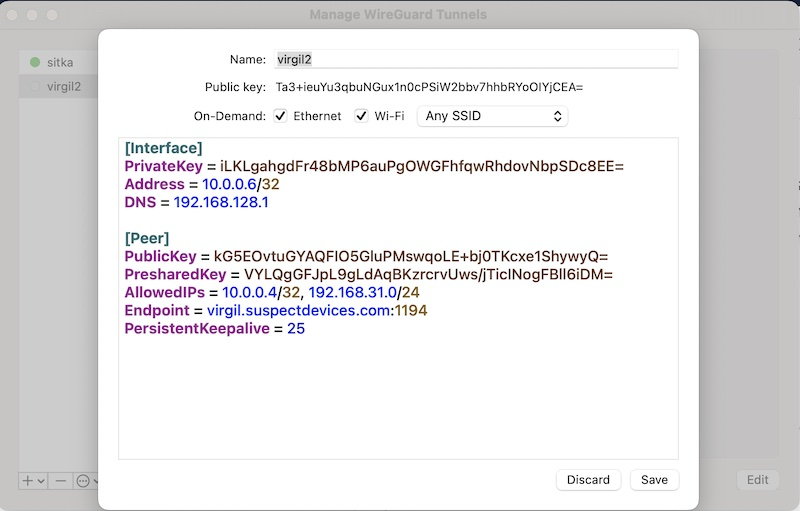
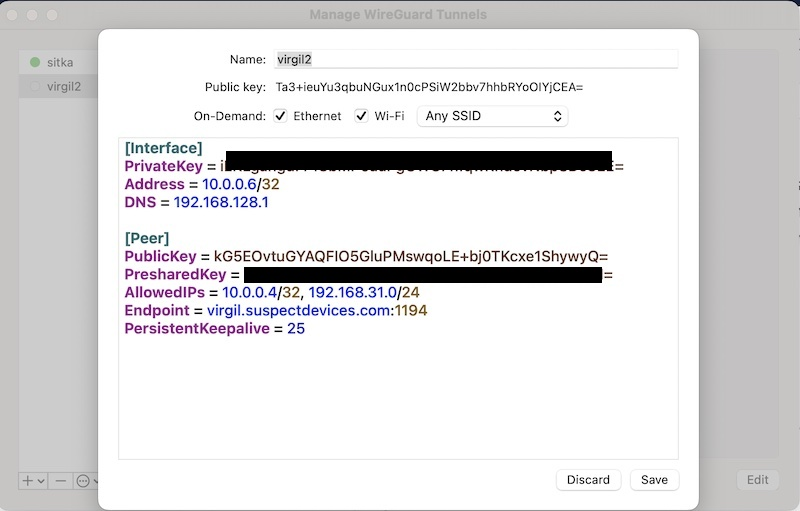
redact private keys

Changed region(s): [[0.25, 0.499, 0.75, 0.6164], [0.2188, 0.2935, 0.7812, 0.411]]

diff --git a/docs/rethinkeverything/norouter/using-a-tank-for-crowd-control.md b/docs/rethinkeverything/norouter/using-a-tank-for-crowd-control.md
@@ -97,14 +97,14 @@ nano /usr/local/etc/wireguard/wg0
 [interface]
 Address = 10.0.0.11/32
 ListenPort = 1194
-PrivateKey = wKdjN83FosVXC1/MkG6aMnW3WJQBexdPhZrF3Ej2520=
+PrivateKey = REDACTED =
 #public key Biw53AZ3wWp4mr/iWfuZWi4eFPfFIYjOLT3weE7mFmI=
 
 # note the peers public key will have to come from the client.
 [peer]
 PublicKey = mxU1WAMJGg3Da5D47rP5OWVYOe4+dwQQum3IFVZHAFY=
 AllowedIPs = 10.0.0.16/32
-PreSharedKey=v5NK+hY10ZFTYnmuhoYBYkTEAq+RBmSLOV05MlPJ9R8=
+PreSharedKey= REDACTED =
 ^X
 service wireguard start
 ```
